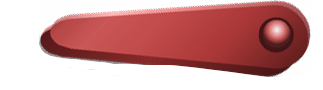
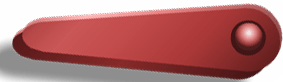
ÑL

diff --git a/Source/ModuleGame.cpp b/Source/ModuleGame.cpp
@@ -31,7 +31,7 @@ bool ModuleGame::Start()
     // Carga de texturas
     tex_ball = App->renderer->Load("Assets/ball0001.png");
     tex_boardL = App->renderer->Load("Assets/boardL.png");
-    tex_boardR = App->renderer->Load("Assets/boardR.png");
+    tex_boardR2 = App->renderer->Load("Assets/boardR2.png");
     tex_game_back2 = App->renderer->Load("Assets/game_back2.png");
     tex_crate = App->renderer->Load("Assets/crate.png");
 
@@ -268,7 +268,7 @@ bool ModuleGame::CleanUp()
     // Limpiar texturas
     UnloadTexture(tex_ball);
     UnloadTexture(tex_boardL);
-    UnloadTexture(tex_boardR);
+    UnloadTexture(tex_boardR2);
     UnloadTexture(tex_crate);
     UnloadTexture(tex_game_back2);
 
@@ -329,8 +329,8 @@ update_status ModuleGame::Update()
         RADTODEG * left_flipper->GetRotation(), WHITE);
 
     right_flipper->GetPhysicPosition(x, y);
-    DrawTexturePro(tex_boardR,
-        { 0, 0, (float)tex_boardR.width, (float)tex_boardR.height },
+    DrawTexturePro(tex_boardR2,
+        { 0, 0, (float)tex_boardR2.width, (float)tex_boardR2.height },
         { (float)x, (float)y, 120, 30 },
         { 60, 15 },
         RADTODEG * right_flipper->GetRotation(), WHITE);

diff --git a/Source/ModuleGame.h b/Source/ModuleGame.h
@@ -18,7 +18,7 @@ private:
     // Texturas
     Texture tex_ball;
     Texture tex_boardL;
-    Texture tex_boardR;
+    Texture tex_boardR2;
     Texture tex_game_back2;
     Texture tex_crate;
 
